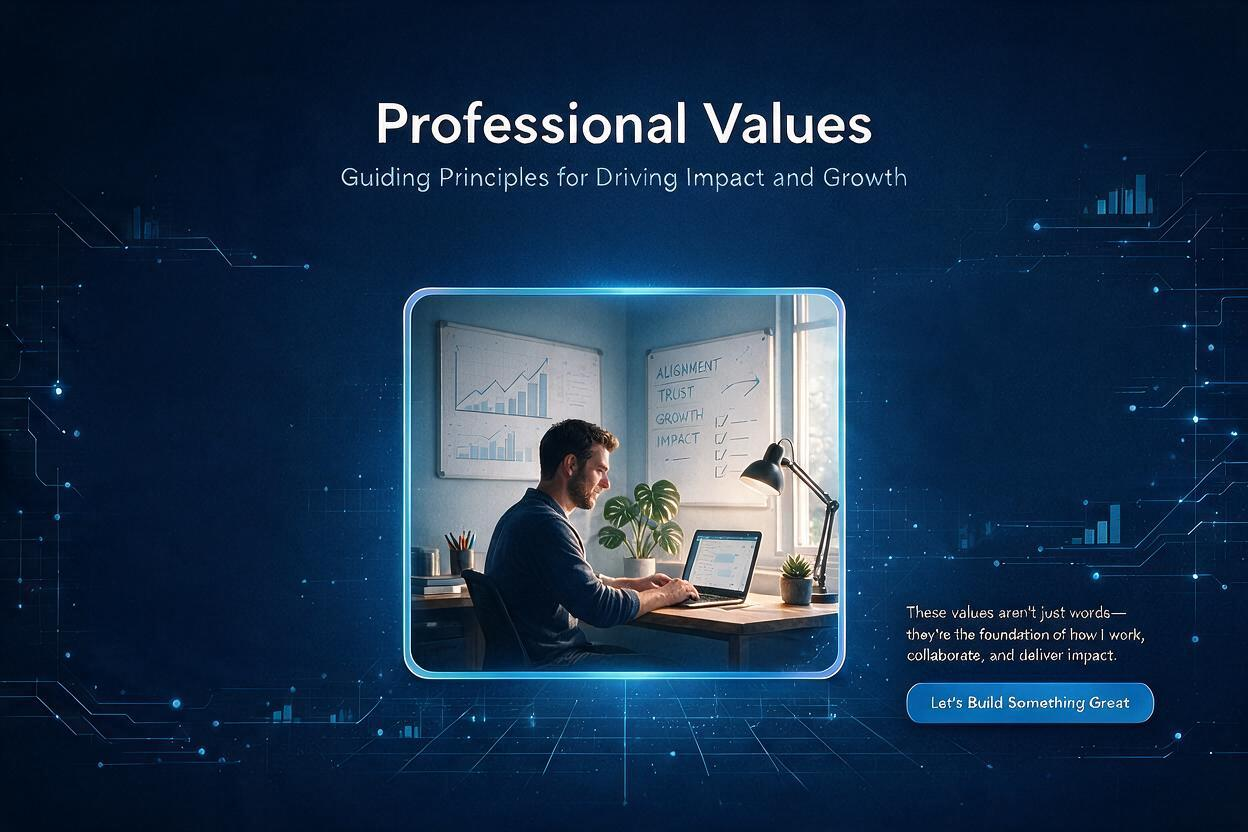
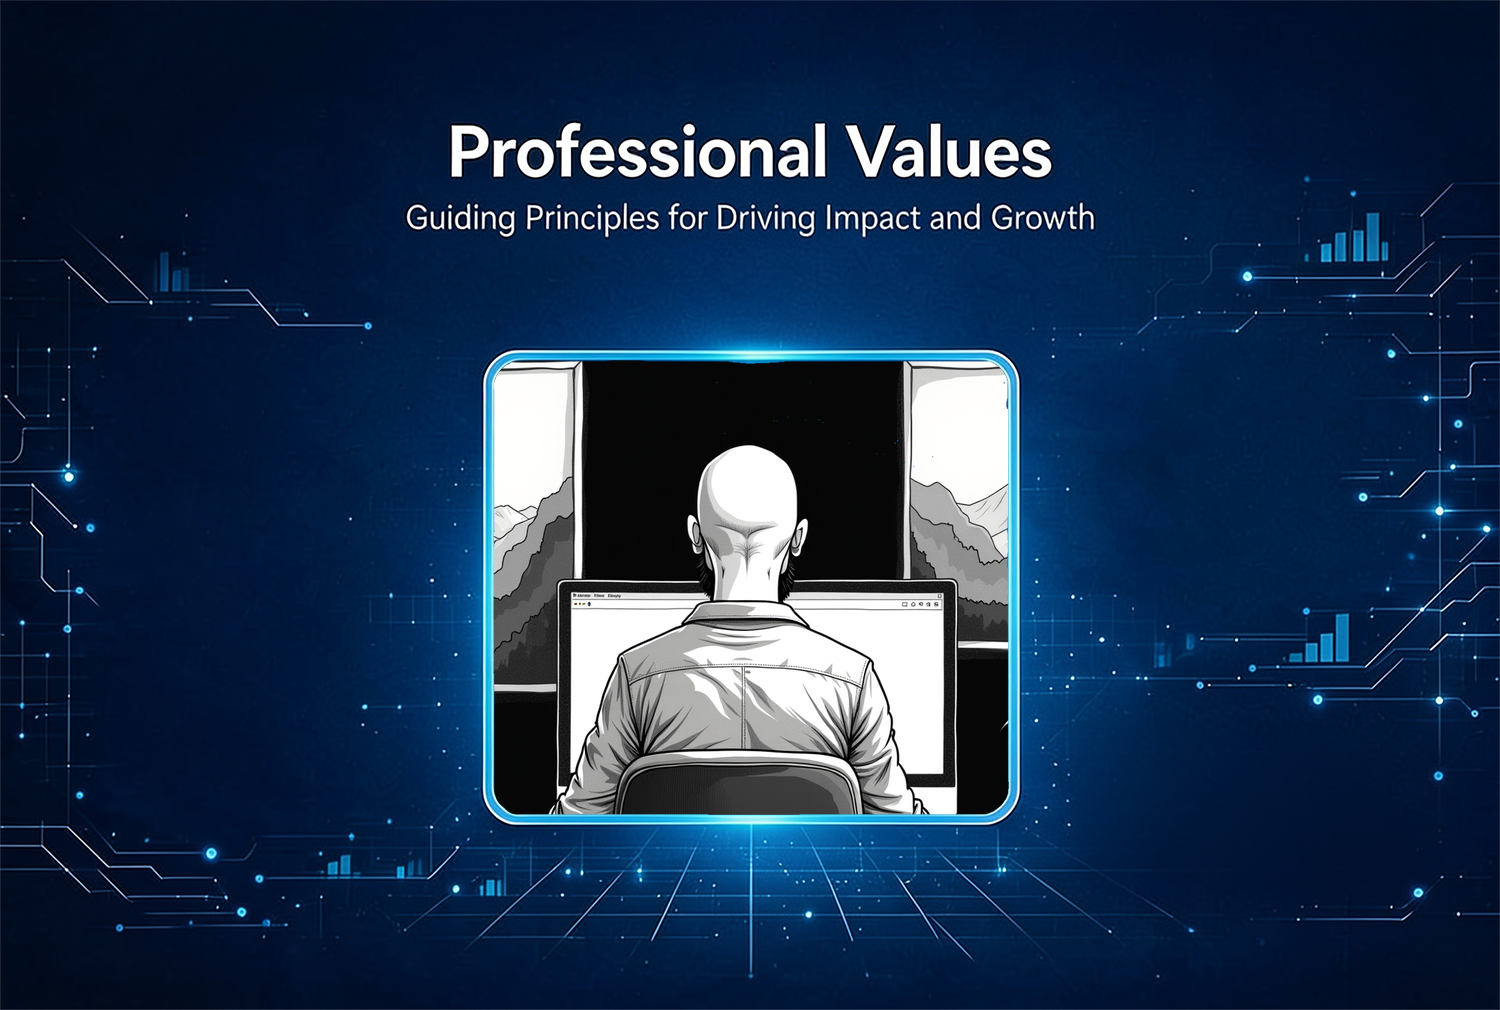
tighten up spacing, update values image, fix navigation

diff --git a/src/components/Footer.jsx b/src/components/Footer.jsx
@@ -13,58 +13,57 @@ const Footer = () => {
 
     const backToTopStyles = {
         color: '#008cff',
-        display: 'flex',
         backgroundColor: 'transparent',
     }
-
 
     return(
         <div id="footer" className="grid place-items-center">
             <section className="background mb-14">
-                <p><a className="pl-4 text-xl" style={backToTopStyles} href="#home">{ arrowUpLineIcon } Back to Top</a></p>
+                <p><a className="mt-8 flex justify-start gap-x-10 text-1xl text-yellow-600 sm:text-xl" style={backToTopStyles} href="#home">{ arrowUpLineIcon } Back to Top</a></p>
                 <motion.div
                     initial={{ opacity: 0, y: 100 }}
                     animate={{ opacity: 1, y: 0 }}
                     transition={{ delay: 0.5 }}
                     className="mt-8 flex justify-center gap-x-10 text-1xl text-yellow-600 sm:text-xl"
-        >
-        <AnimatedNavLink href="#skills" >
-            Skills
-        </AnimatedNavLink>
-          <AnimatedNavLink href="#experience">
-            Experience
-          </AnimatedNavLink>
-
-          <AnimatedNavLink href="#projects">
-            Projects
-          </AnimatedNavLink>
-
-          <AnimatedNavLink href="#about" >
-            About
-          </AnimatedNavLink>
-        </motion.div>
-        <motion.div
-          initial={{ opacity: 0, y: 100 }}
-          animate={{ opacity: 1, y: 0 }}
-          transition={{ delay: 0.5 }}
-          className="mt-8 flex justify-center gap-x-10 text-3xl text-yellow-600 sm:text-2xl"
-        >
-          {socialEmailIcons.map((item, i) => (
-            <a
-              href={item.href}
-              key={i}
-              className=""
-              style={iconLinkStyles}
-            >
-              {item.icon}
-            </a>
-          ))}
-        </motion.div>
-                <div className="flex justify-evenly mt-3 mb-3">
-                    <p>&copy; 2016-{currentYear} Brian Wardwell</p>
-                </div>
-            </section>
-        </div>
+                  >
+                    <AnimatedNavLink href="#skills" >
+                        Skills
+                    </AnimatedNavLink>
+                    <AnimatedNavLink href="#experience">
+                      Experience
+                    </AnimatedNavLink>
+                    <AnimatedNavLink href="#values" >
+                      Values
+                    </AnimatedNavLink>
+                    <AnimatedNavLink href="#projects">
+                      Projects
+                    </AnimatedNavLink>
+                    <AnimatedNavLink href="#about" >
+                      About
+                    </AnimatedNavLink>
+                  </motion.div>
+                  <motion.div
+                    initial={{ opacity: 0, y: 100 }}
+                    animate={{ opacity: 1, y: 0 }}
+                    transition={{ delay: 0.5 }}
+                    className="mt-8 flex justify-center gap-x-10 text-3xl text-yellow-600 sm:text-2xl"
+                  >
+                    {socialEmailIcons.map((item, i) => (
+                      <a
+                        href={item.href}
+                        key={i}
+                        className=""
+                        style={iconLinkStyles}
+                      >
+                        {item.icon}
+                      </a>
+                    ))}
+                  </motion.div>
+                  <div className="flex justify-evenly mt-3 mb-3">
+                      <p>&copy; 2016-{currentYear} Brian Wardwell</p>
+                  </div>
+              </section>
+          </div>
     )
 }
 

diff --git a/src/components/Values.jsx b/src/components/Values.jsx
@@ -7,7 +7,9 @@ import { valuesImage } from '../assets'
 const Values = () => {
     return(
         <div id="values" className="min-h-screen flex flex-col items-center justify-start">
-            <SectionHeading text={'My Values and Mission'} />
+            <div className="grid w-full grid-cols-1 gap-8 px-4 lg:grid-cols-2 lg:items-start">
+                <SectionHeading text={'My Values and Mission'} />
+            </div>
             <div className="grid w-full grid-cols-1 gap-8 px-4 lg:grid-cols-2 lg:items-start">
                 <section className="background mb-14">
                     <div className="flex justify-center mt-5">
@@ -45,7 +47,7 @@ const Values = () => {
                             <li className="font-bold text-lg text-gray-700 dark:text-white">
                                 Dilligence and Accountability
                                 <ul className="font-normal ps-5 mt-2 space-y-1 list-inside border-l-[5px] border-l-gray-500 border-solid p-4">
-                                    <li>Autonomy and ownership, reaching out for input because it is the right thing and demanding excellence and quality.</li>
+                                    <li>Autonomy and ownership, reaching out for help because it is the right thing and demanding excellence and quality.</li>
                                 </ul>
                             </li>
                             <li className="font-bold text-lg text-gray-700 dark:text-white">

diff --git a/src/assets/index.jsx b/src/assets/index.jsx
@@ -12,7 +12,7 @@ export const socialEmailIcons = [
     {
       icon: <MailLineIcon />,
       name: 'Email',
-      href: 'mailto:brianwardwell@brianwardwell.com',
+      href: 'mailto:bwardwell@brianwardwell.com',
     },
     {
       icon: <LinkedinBoxLineIcon />,
@@ -22,7 +22,7 @@ export const socialEmailIcons = [
   {
     icon: <GithubLineIcon />,
     name: 'GitHub',
-    href: 'https://github.com/spartanbyte/',
+    href: 'https://github.com/btwardwell/',
   },
   {
     icon: <StackOverflowLineIcon />,
@@ -110,6 +110,11 @@ export const navbarDataBlue = [
     icon:  '/icons/png/interface/blue/experience.png',
   },
   {
+    id: 'values',
+    name: 'Values',
+    icon: '/icons/png/interface/blue/values-heart.png',
+  },
+  {
     id: 'projects',
     name: 'Projects',
     icon: '/icons/png/interface/blue/projects.png',
@@ -118,11 +123,6 @@ export const navbarDataBlue = [
     id: 'about',
     name: 'About',
     icon: '/icons/png/interface/blue/user.png',
-  },
-  {
-    id: 'values',
-    name: 'Values',
-    icon: '/icons/png/interface/blue/values-heart.png',
   },
 ]
 

diff --git a/src/app/page.jsx b/src/app/page.jsx
@@ -97,7 +97,7 @@ export default function Home() {
           ]
         }) }} />
         <Navbar id={id} />
-        <div className="w-75 md:w-full h-full flex flex-col justify-between ml-20 px-2 py-10 xl:py-6 z-10" ref={compsRef} >
+        <div className=" md:w-full h-full flex flex-col justify-between ml-20 px-2 py-10 xl:py-6 z-10" ref={compsRef} >
           <Hero />
             <div className="relative isolate xl:w-full mx-auto xl:px-[90px] sm:pl-[80px] sm:pr-5" style={{ padding: '20px', backgroundColor: 'rgba(39,39,42,0.6)'  }}>
               <div
@@ -108,9 +108,9 @@ export default function Home() {
               <div className="relative z-10">
                 <Skills />
                 <Experience />
+                <Values />
                 <Projects />
                 <About />
-                <Values />
               </div>
             </div> 
           <Footer />

diff --git a/src/components/Skills.jsx b/src/components/Skills.jsx
@@ -97,7 +97,7 @@ const variants = {
             {otherSkillsAndToolsData.map((item, index) => (
                 <div className="w-full md:w-64 flex flex-col items-center gap-x-3 gap-y-5 rounded-xl border border-opacity-10 px-5 py-2 lg:px-2" key={index}>
                     <p className="font-bold" key={index}>{item.name}</p>
-                    <ul className="list-disc">
+                    <ul className="w-full list-disc">
                         {item.skill_items.map((skillItem, i) => (
                             <li className="ml-4" index={i} key={i}>
                                 {skillItem.text}

diff --git a/src/components/sub/SectionHeading.tsx b/src/components/sub/SectionHeading.tsx
@@ -9,7 +9,7 @@ interface SectionHeadingProps {
 // use the defined props interface for Typescript
 const SectionHeading: React.FC<SectionHeadingProps> = ({ text }) => {
   return (
-    <h1 className="text-2xl md:text-3xl font-bold text-gray-600 text-center md:text-left self-start dark:text-white transition-colors">
+    <h1 className="text-2xl md:text-3xl font-bold text-gray-600 text-center md:text-left self-start dark:text-white transition-colors pb-4">
       {text}
     </h1>
   )

diff --git a/src/components/sub/PortfolioProject.jsx b/src/components/sub/PortfolioProject.jsx
@@ -16,7 +16,7 @@ const PortfolioProject = ({ data, index }) => {
     <div id="portfolio-project" className="min-w-full border-b-2 border-gray-700">
       { /* chaining for safety */ }
       { /* image_description, fallback to project name, then generic */ }
-      <div className="flex pb-4">
+      <div className="flex flex-col gap-3 pb-4 md:flex-row">
         {data?.images?.map((imageItem, i) => (
           <a href={imageItem.image} className="mr-3" key={i}>
             <Image

diff --git a/src/components/Hero.jsx b/src/components/Hero.jsx
@@ -112,6 +112,9 @@ const Hero = () => {
                 <AnimatedNavLink href="#experience">
                     Experience
                 </AnimatedNavLink>
+                <AnimatedNavLink href="#values">
+                    Values
+                </AnimatedNavLink>
                 <AnimatedNavLink href="#projects">
                     Projects
                 </AnimatedNavLink>

diff --git a/src/components/About.jsx b/src/components/About.jsx
@@ -11,6 +11,7 @@ const About = () => {
             <Image
                 src={'/images/about-collage.png'}
                 alt="Portrait image of Brian Wardwell"
+                className="pb-4"
                 width={890}
                 height={500}
             />
